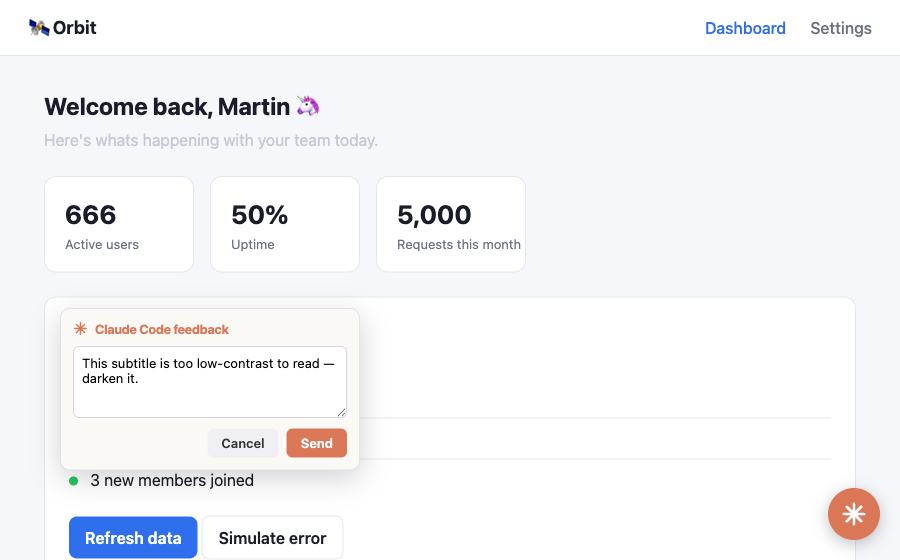
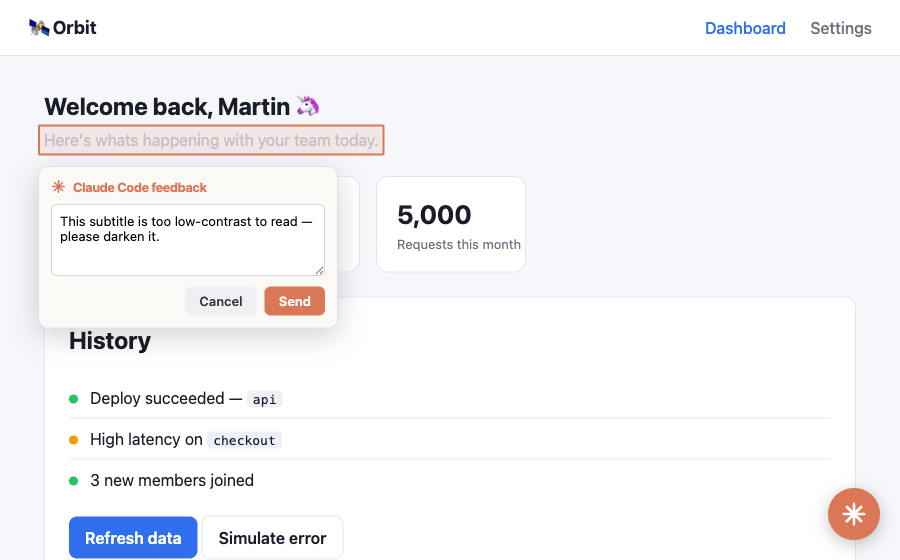
Rewrite README with a benefit-first voice; lead with live mode
Reframe the README for a public audience: a marketing-style hook ("stop
pasting screenshots into Claude Code"), live/channel mode as the headline
experience, pull mode demoted to a "stay in the driver's seat" alternative,
and cleaner prose throughout. Recapture the hero so it shows the selection
box drawn around the marked element alongside the composer.

diff --git a/README.md b/README.md
@@ -1,59 +1,100 @@
 # claude-code-feedback
 
-Comment directly on your local web app and feed that feedback into your **Claude Code** session.
+**Stop pasting screenshots into Claude Code. Point at the problem in your browser instead.**
 
-Draw a box on the page, type a note — the widget captures a **screenshot**, the **CSS selector** of what you marked, the page URL, and recent **console/network errors**, and hands them to Claude Code over **MCP**. Then you (or a loop) tell Claude to act on them.
+Reviewing a frontend with Claude usually means screenshotting the page, cropping it, pasting it into the chat, and typing out *"the button in the top-right is misaligned."* `claude-code-feedback` turns all of that into a single gesture: draw a box on your running app, type a note, and hit send. Claude gets the screenshot, the exact element you marked, the page URL, and any recent console errors — then fixes it, right in your session.
 
 ![The feedback widget open on a local web app: draw a box, type a note, send it to Claude Code.](assets/hero.png)
 
+Ever wished you could give Claude feedback on a frontend as easily as leaving a comment? That's the whole idea — review your live app like a design doc, with Claude Code as the reviewer who actually does the work.
+
+## How it works
+
 ```
- ┌─────────────────────────────┐   POST /feedback    ┌──────────────────────────┐   MCP tools    ┌──────────────┐
- │ widget on your dev site     │ ──────────────────▶ │ bridge (local process)   │ ─────────────▶ │ Claude Code  │
- │ (localhost:3000)            │  msg, rect,         │ • HTTP intake :7878      │ list_feedback  │ session      │
- │ screenshot + selector +     │  selector,          │ • in-memory queue        │ get_feedback   │              │
- │ console/network diagnostics │  screenshot, diag   │ • MCP stdio server       │ resolve_…      │              │
- └─────────────────────────────┘                     └──────────────────────────┘                └──────────────┘
+ ┌─────────────────────────────┐  POST /feedback   ┌─────────────────────────┐  channel push   ┌──────────────┐
+ │ widget on your dev site     │ ────────────────▶ │ bridge (local process)  │ ──────────────▶ │ Claude Code  │
+ │ screenshot + selector +     │  message, region, │ • HTTP intake :7878     │  (or MCP tools) │ session      │
+ │ console/network diagnostics │  screenshot, diag │ • MCP stdio + channel   │                 │              │
+ └─────────────────────────────┘                   └─────────────────────────┘                 └──────────────┘
 ```
 
-The capture half is framework-agnostic (vanilla TS + `html2canvas` + `@medv/finder`); the bridge is a single Node process that is **both** an HTTP intake for the widget **and** an MCP stdio server for Claude Code.
+A small in-page **widget** captures your feedback and posts it to a local **bridge**. The bridge is a single Node process that also plugs into Claude Code, handing each item to your session — screenshot and all. The widget is framework-agnostic (vanilla TypeScript with `html2canvas` and `@medv/finder`), so it drops onto any dev site without a build step or dependency of yours.
 
-## Requirements
+## Get started
 
-- **[Claude Code](https://docs.claude.com/en/docs/claude-code/overview)** (the plugin path needs a version with `/plugin` support)
-- **Node.js 18+**
-- **[pnpm](https://pnpm.io/)** — only for building from source
+The experience this is built for is **live mode**: feedback streams straight into your session the moment you send it — no polling, no "check my feedback" prompt. It's powered by Claude Code [channels](https://code.claude.com/docs/en/channels).
 
-## Install as a plugin (recommended)
-
-The fastest way to use this in any project — no clone, no build, no path editing:
+**1. Install the plugin.** In any Claude Code session:
 
 ```
 /plugin marketplace add Morton/claude-code-feedback
 /plugin install web-feedback@claude-code-feedback
 ```
 
-That bundles the bridge (MCP server + widget host) and a **`/web-feedback:feedback`**
-skill. Then inject the widget on your running dev site — drag this **bookmarklet** to
-your bookmarks bar and click it on any `localhost` page (zero project changes):
+**2. Launch Claude Code in live mode** from your project:
+
+```bash
+claude --dangerously-load-development-channels plugin:web-feedback@claude-code-feedback
+```
+
+Channels are a research preview, so custom ones need the development flag for now. Add `--dangerously-skip-permissions` if you want Claude to apply changes fully hands-off — in projects you trust.
+
+**3. Add the widget to your app.** Drag this bookmarklet to your bookmarks bar, then click it on any `localhost` page. Nothing to install in your project:
 
 ```
 javascript:(()=>{const s=document.createElement('script');s.src='http://localhost:7878/widget.js';document.body.appendChild(s);})()
 ```
 
-Leave a comment on the page, then run `/web-feedback:feedback` (or just say *"check my
-web feedback and apply it"*). See [`plugin/`](plugin/) for details, push mode, and the
-`--channels` flag.
+**4. Leave feedback.** Click the button, draw a box around what's wrong, type a note, and send. It lands in your session immediately and Claude gets to work — reading the screenshot, locating the code, and making the change.
 
-## Quick start (from source)
+Keep the session open and comment as you browse. Every note arrives live.
 
-Prefer to run it straight from this repo instead of the plugin:
+> Live mode requires Claude Code **v2.1.80+** and Anthropic authentication (claude.ai or a Console API key; it isn't available on Amazon Bedrock, Google Vertex, or Microsoft Foundry). On Team and Enterprise plans, an admin must enable channels first.
+
+## Prefer to stay in the driver's seat?
+
+If you'd rather trigger Claude yourself, skip the `--channels` flag and use the bundled skill. Leave your comments, then run:
+
+```
+/web-feedback:feedback
+```
+
+Claude reviews everything pending, applies each change, and marks it resolved. To keep applying comments as they arrive, run it under `/loop`. This pull mode works with a plain plugin install — no special launch flags needed.
+
+## What Claude receives
+
+Every comment carries the context Claude needs to act without guessing:
+
+- an annotated **screenshot** of the region you marked,
+- the **CSS selector** and tag of the element,
+- the **page URL**, and
+- recent **console and network errors** from the page.
+
+The bridge exposes this through four MCP tools:
+
+| Tool | Purpose |
+|---|---|
+| `list_feedback` | List pending items with message, URL, selector, and diagnostics |
+| `get_feedback(id)` | Fetch one item in full; returns the screenshot as an image |
+| `resolve_feedback(id)` | Mark an item handled so it drops off the list |
+| `clear_feedback` | Discard everything |
+
+## Requirements
+
+- **[Claude Code](https://docs.claude.com/en/docs/claude-code/overview)** — live mode needs v2.1.80 or later; the plugin install needs a version with `/plugin` support
+- **Node.js 18** or later
+- **[pnpm](https://pnpm.io/)** — only if you build from source
+
+## Run it from source
+
+Prefer to run the bridge straight from this repo instead of installing the plugin? Build it, then register it as an MCP server.
 
 ```bash
 pnpm install
-pnpm run build        # builds public/widget.js + dist/bridge.js
+pnpm run build   # builds public/widget.js and dist/bridge.js
 ```
 
-**1. Register the bridge as an MCP server** in your project's `.mcp.json` (or Claude Code settings):
+Add the bridge to your project's `.mcp.json`:
 
 ```json
 {
@@ -66,125 +107,50 @@ pnpm run build        # builds public/widget.js + dist/bridge.js
 }
 ```
 
-Claude Code spawns it; it also opens `http://localhost:7878` for the widget. (Override the port with `CLAUDE_FEEDBACK_PORT`.)
+Claude Code launches it on demand, and it serves the widget on `http://localhost:7878`. Set `CLAUDE_FEEDBACK_PORT` to change the port. This path is machine-specific, so keep your `.mcp.json` local (it's gitignored here).
 
-**2. Inject the widget** into your dev site — one tag, dev-only:
+Inject the widget with the bookmarklet above, or add a dev-only tag to your app:
 
 ```html
 <script src="http://localhost:7878/widget.js"></script>
 ```
 
-(Or just open the bundled demo at `http://localhost:7878/demo.html`.)
+For live mode from source, launch with `claude --dangerously-load-development-channels server:web-feedback` — the name matches the key in your `.mcp.json`.
 
-> **Want a realistic test bed?** `pnpm run example` serves a small fake dashboard
-> ("Orbit") on `http://localhost:3000` with deliberate UI issues to comment on —
-> it pulls the widget in cross-origin, exactly like a real dev site would. See
-> [`example/`](example/).
+## Try it with the example app
 
-**3. Use it.** Run `claude` in your project + your dev server. Leave comments on the page, then in the CLI:
-
-> "Check my web feedback and apply it."
-
-Claude calls `list_feedback` / `get_feedback` (it can *see* each screenshot), makes the changes, and calls `resolve_feedback`. For a hands-off loop, run it under `/loop` so it applies comments as they arrive.
-
-## Push vs. pull
-
-By default the loop above is **pull**: Claude polls `list_feedback` (under `/loop`) or
-you ask it to. The bridge is also a Claude Code **[channel](https://code.claude.com/docs/en/channels)**,
-so it can **push** instead — the moment you hit *Send* in the widget, the item is
-injected into your running session and Claude acts on it, no polling.
-
-Start the session with the channel enabled (the server name matches the key in your
-`.mcp.json`):
+The repo ships a small demo dashboard, "Orbit," with a few deliberate UI problems to practice on:
 
 ```bash
-# Channels are a research preview; a custom one isn't on the allowlist yet, so:
-claude --dangerously-load-development-channels server:web-feedback
-
-# Fully hands-off (Claude edits files without per-action prompts) — trusted dirs only:
-claude --dangerously-load-development-channels server:web-feedback --dangerously-skip-permissions
+pnpm run example   # serves the demo at http://localhost:3000
 ```
 
-Each new comment arrives as `<channel source="claude-code-feedback" id="…" selector="…">`
-with a nudge to call `get_feedback(id)` (which returns the screenshot), apply it, and
-`resolve_feedback(id)`. The push is harmless when you *don't* launch with `--channels`:
-Claude Code just drops the notification, and pull mode still works.
+It loads the widget cross-origin from the bridge, exactly like a real dev site would. See [`example/`](example/) for the details, and [`plugin/`](plugin/) for how the plugin is packaged.
 
-> Channels require Claude Code **v2.1.80+** and Anthropic auth (claude.ai or a Console
-> API key; not Bedrock/Vertex/Foundry). On Team/Enterprise an admin must enable them.
-> Syntax may change while it's in research preview.
+## Good to know
 
-## MCP tools
+- The feedback queue lives **in memory** in the bridge process. Run one Claude Code session per project on a given port — a second session can't bind `:7878` and won't receive feedback (it stays connected but logs a warning). Use `CLAUDE_FEEDBACK_PORT` to run more than one.
+- Start the bridge (by launching Claude Code) **before** the widget loads, or `widget.js` returns a 404.
 
-| Tool | Purpose |
-|---|---|
-| `list_feedback` | Pending items: message, URL, selector, diagnostics |
-| `get_feedback(id)` | One item in full, screenshot returned as an **image** |
-| `resolve_feedback(id)` | Mark handled (drops from the list) |
-| `clear_feedback` | Discard everything |
+## Roadmap
 
-## Local development & testing
+The end-to-end loop is proven and packaged as a Claude Code plugin. On the horizon:
 
-```bash
-pnpm install
-pnpm run build        # builds public/widget.js + dist/bridge.js
-```
-
-**Quick, non-interactive check** — no browser, no Claude session:
-
-```bash
-node test/loop.mjs    # spawns the bridge over MCP, posts feedback, reads it back via the tools
-```
-
-**Full end-to-end test** against the bundled [`example/`](example/) app ("Orbit", a
-fake dashboard with deliberate UI issues to comment on):
-
-1. **Register the bridge** in `.mcp.json` (see [Quick start](#quick-start)) using an
-   absolute path to `dist/bridge.js`.
-2. **Terminal A — start Claude in this repo:** `claude`. It spawns the bridge as a
-   stdio MCP server, which opens the HTTP intake on `:7878`. Run `/mcp` and confirm
-   `web-feedback` is **connected** with the four tools. (If you just edited
-   `.mcp.json`, restart `claude` so it re-spawns.)
-3. **Terminal B — serve the example:** `pnpm run example` → <http://localhost:3000>.
-   The static server auto-injects `<script src="http://localhost:7878/widget.js">`,
-   so the widget loads cross-origin from the bridge.
-4. **Leave feedback:** open the page, click 💬, box one of the planted issues, Send.
-5. **Back in Terminal A:** *"Check my web feedback and apply it."* — or run it under
-   `/loop` to apply comments as they arrive.
-
-**Gotchas**
-
-- Start the **bridge (via Claude) before** the example, or `widget.js` 404s.
-- The feedback queue is **in-memory in the bridge process**. Run only **one `claude`
-  session per project** for a given port — a second one spawns a second bridge that
-  can't bind `:7878`; it stays connected over MCP but won't receive widget posts
-  (it logs a warning). Use `CLAUDE_FEEDBACK_PORT` to run more than one on distinct ports.
-- `.mcp.json` holds a machine-specific absolute path, so it's gitignored — create your
-  own locally.
-
-## Status & roadmap
-
-Prototype — proves the end-to-end loop. Packaged as a **Claude Code plugin** (bundled
-MCP server + `/feedback` skill, see [`plugin/`](plugin/)). Natural next steps:
-
-- **Browser extension** so it injects on any `localhost` site with zero project changes (vs. the `<script>` tag / bookmarklet).
-- **Element → source mapping**: capture the source `file:line` for the marked element (React JSX-source / Vite plugin) so Claude jumps straight to the component.
-- **Persistence** of the queue + screenshots to disk (currently in-memory per bridge process).
-- Get the channel onto the official allowlist so **push mode** drops the `--dangerously-load-development-channels` flag.
+- A **browser extension** that injects the widget on any `localhost` site automatically, replacing the bookmarklet.
+- **Element-to-source mapping** — capture the source `file:line` of the marked element (via React JSX source or a Vite plugin) so Claude jumps straight to the component.
+- **On-disk persistence** for the queue and screenshots (currently in memory, per bridge process).
+- Getting the channel onto the official allowlist so live mode no longer needs the development flag.
 
 ## Contributing
 
-Issues and pull requests are welcome — it's a small, hackable codebase:
+Issues and pull requests are welcome — it's a small, hackable codebase built from three files: `src/widget/widget.ts` (the in-page widget), `src/bridge.ts` (HTTP intake, MCP server, and channel), and `src/store.ts` (the queue).
 
 ```bash
 pnpm install
-pnpm run build          # public/widget.js + dist/bridge.js
+pnpm run build          # public/widget.js and dist/bridge.js
 node test/loop.mjs      # smoke-test the MCP loop
 pnpm run build:plugin   # regenerate the bundled plugin artifacts before committing
 ```
-
-The whole thing is three small files: `src/widget/widget.ts` (the in-page widget),
-`src/bridge.ts` (HTTP intake + MCP server + channel), and `src/store.ts` (the queue).
 
 ## License
 
